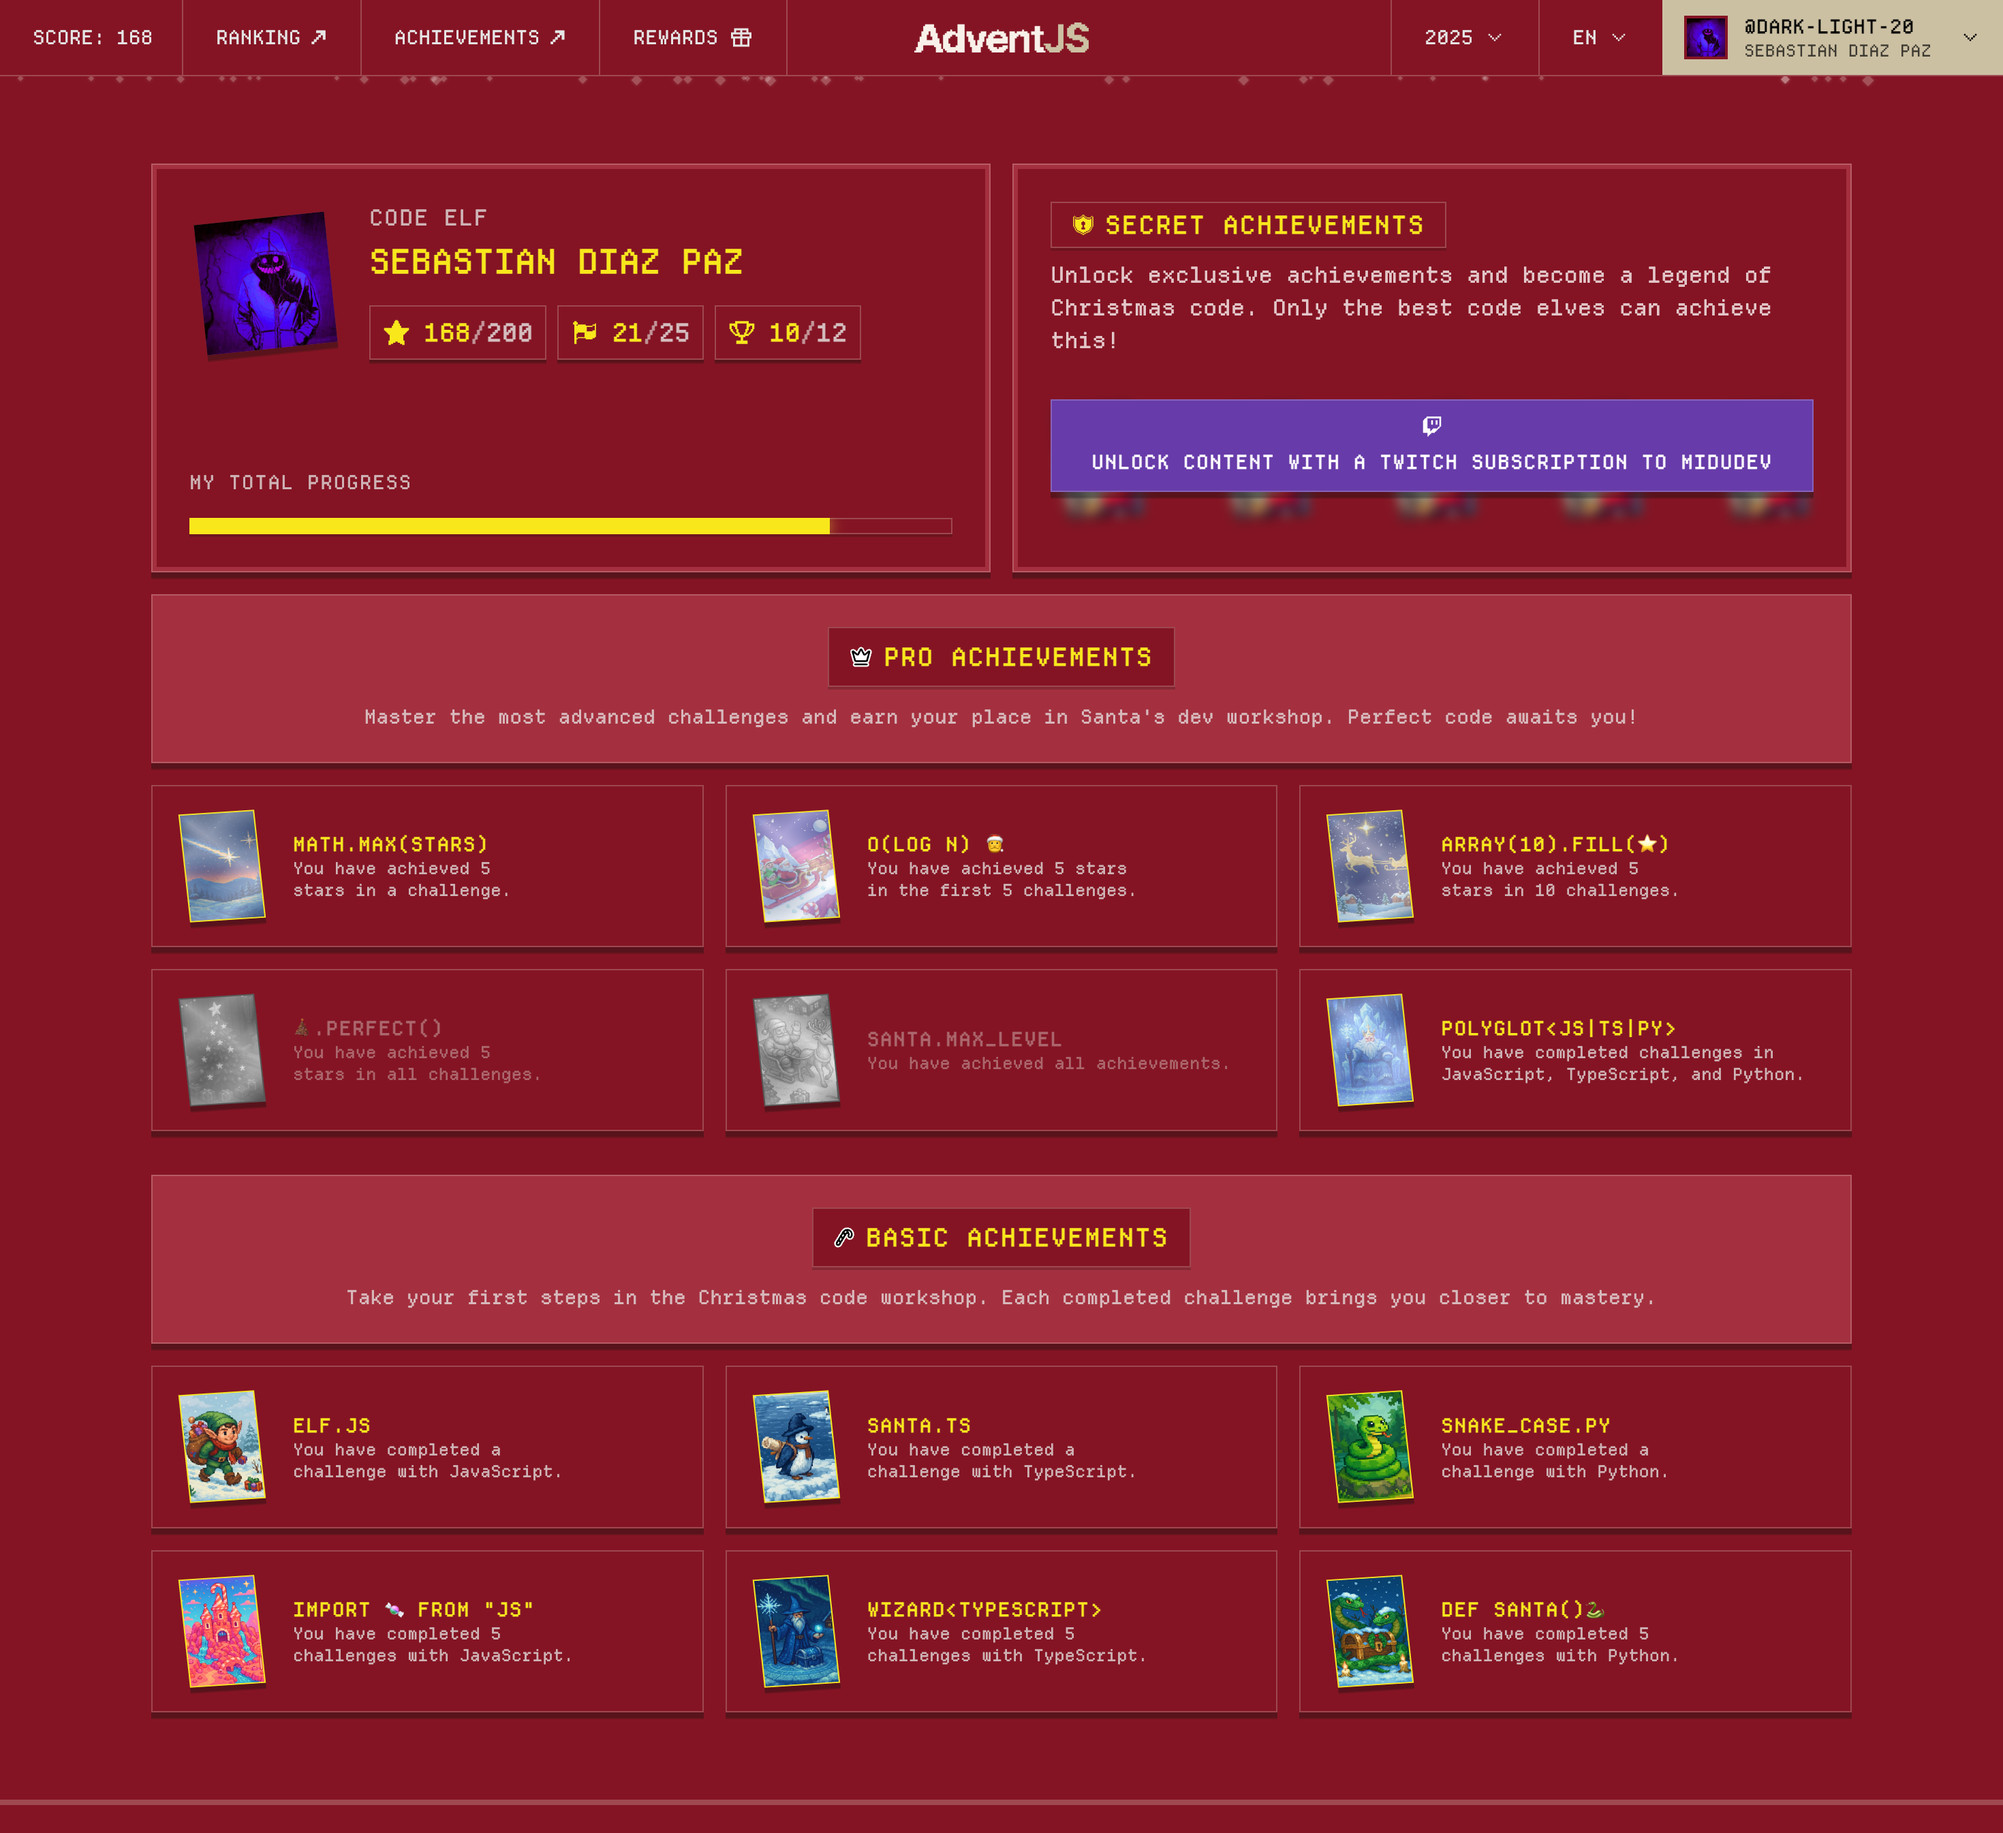
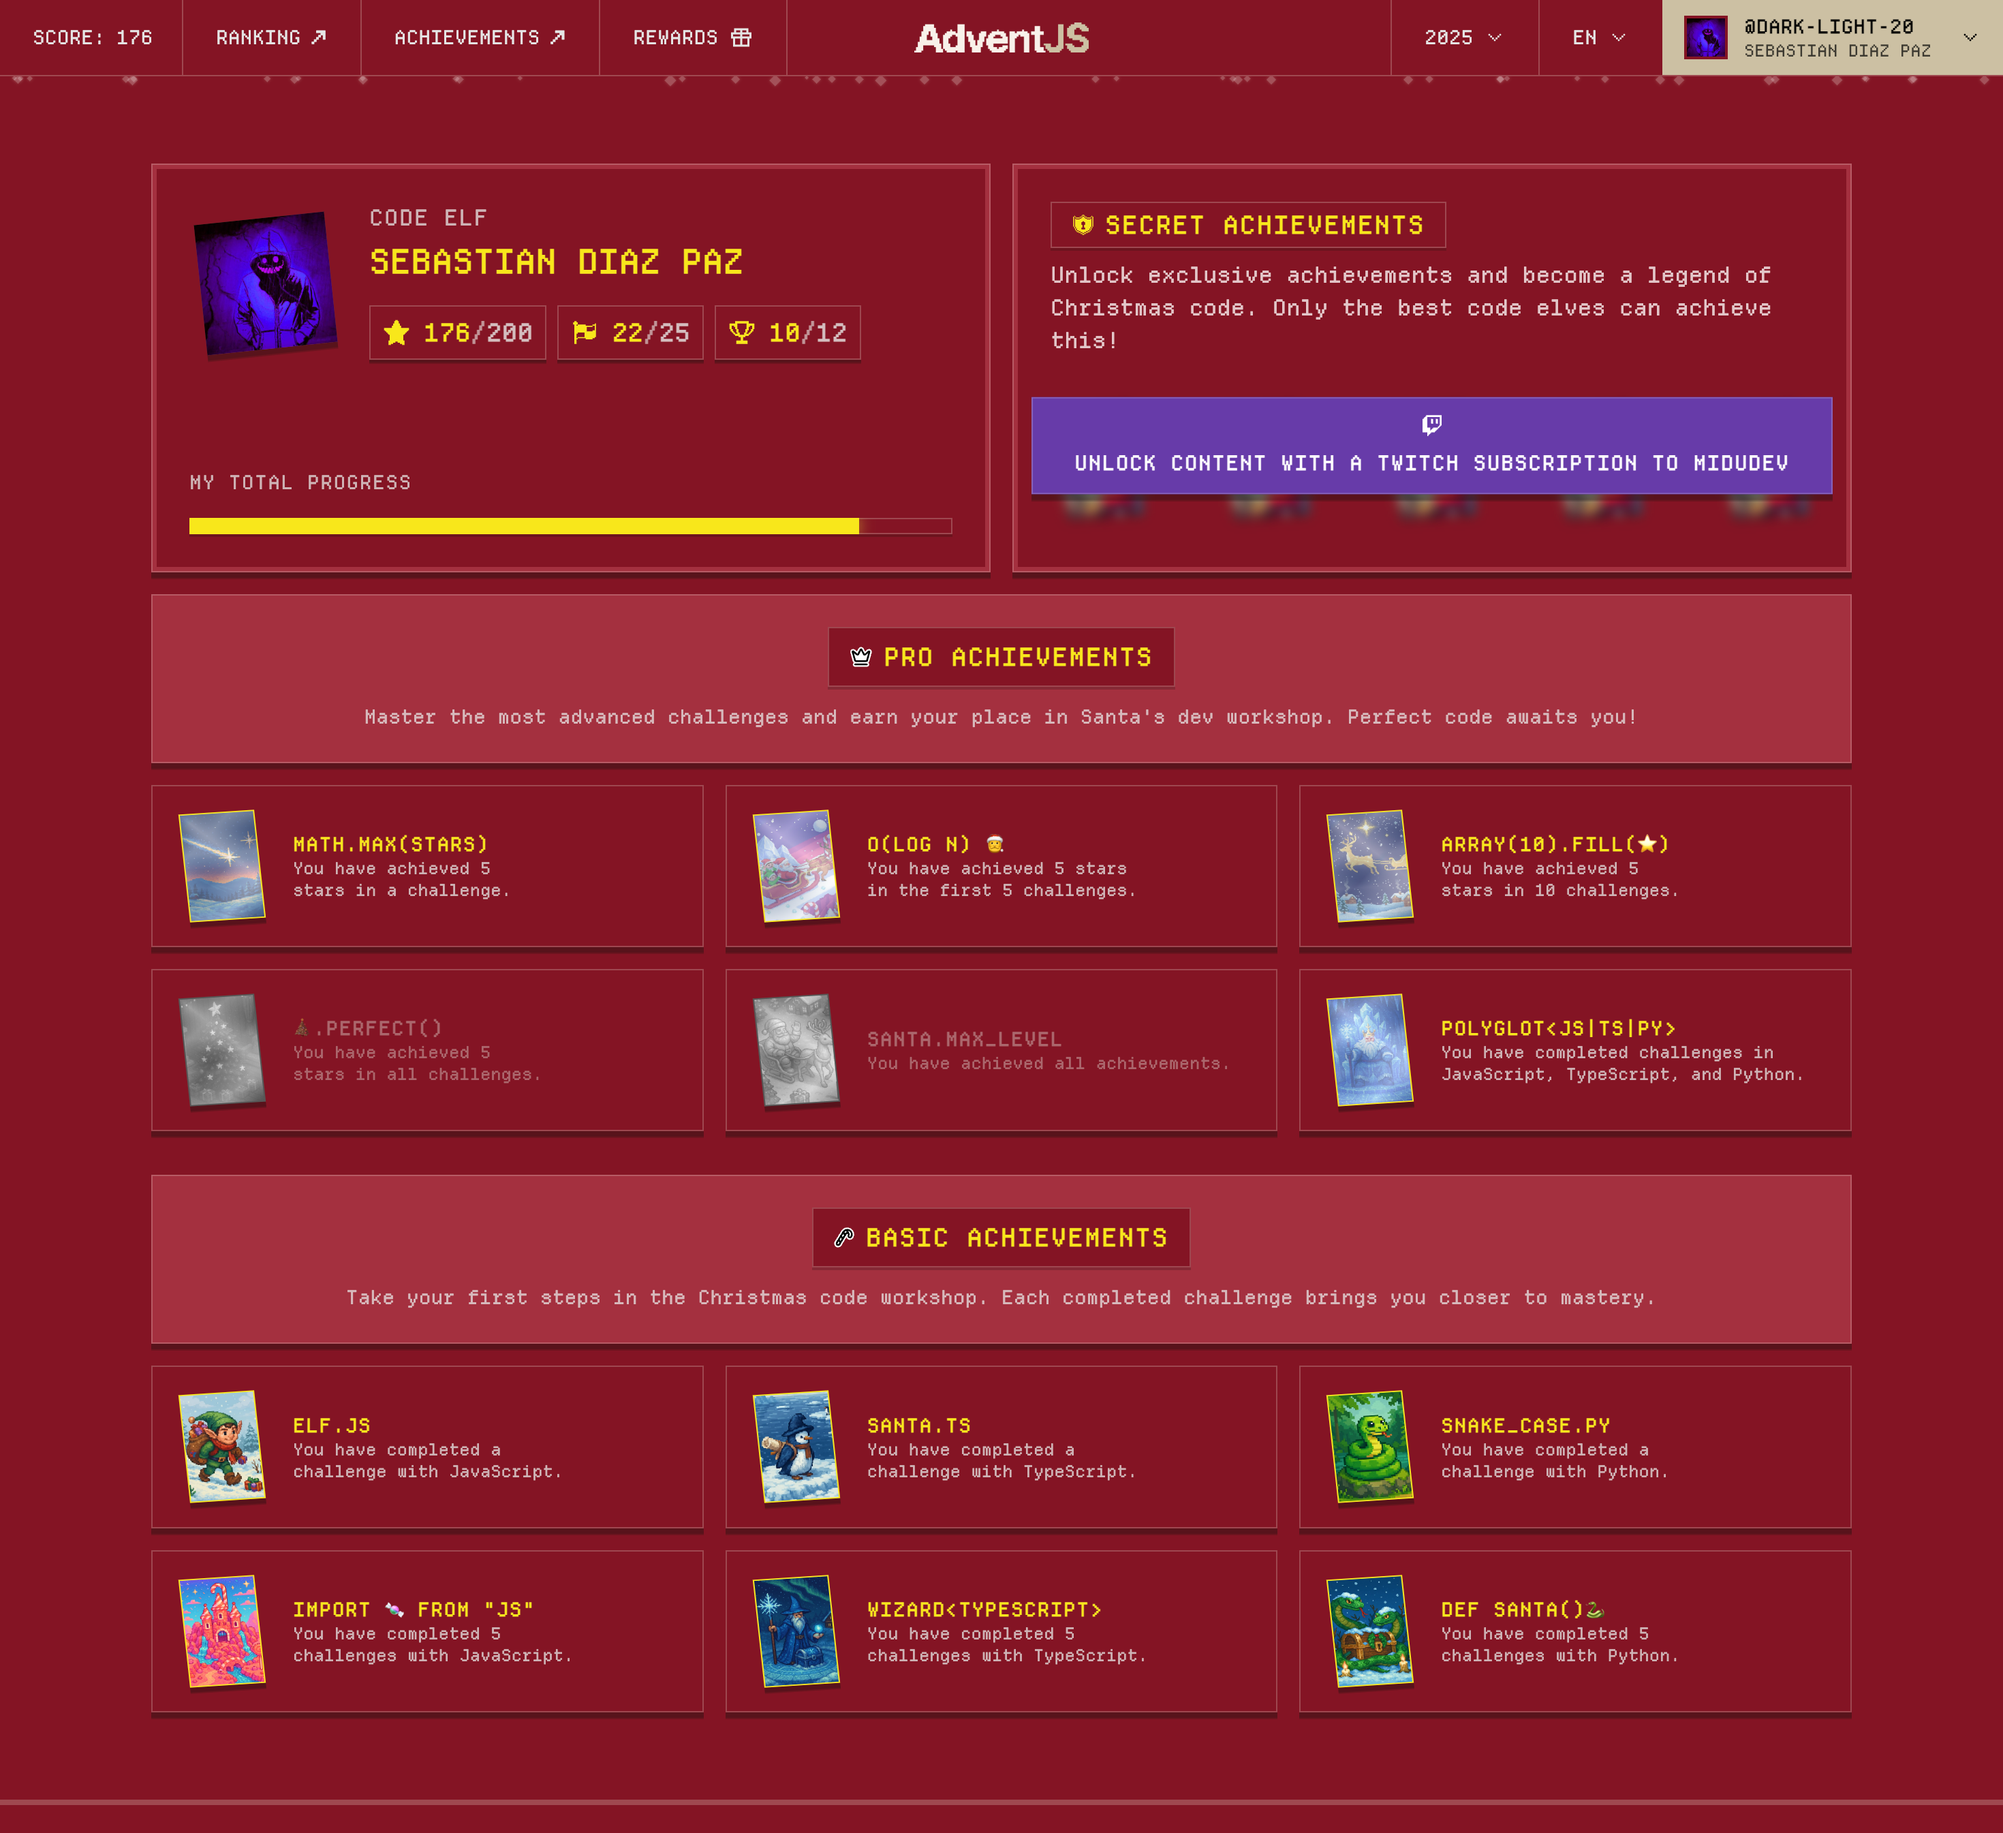
feat: :sparkles: Added challenge 22 solution

Changed region(s): [[0.4952, 0.2186, 0.9286, 0.281], [0.4024, 0.281, 0.4333, 0.3123]]

diff --git a/solutions/js/22.js b/solutions/js/22.js
@@ -1,0 +1,101 @@
+/**
+ * @param {string[][]} maze
+ * @returns {boolean}
+ */
+function canEscape(maze) {
+  const mazeLength = maze.length;
+  const rowLength = maze[0].length;
+  const directions = [
+    [0, 1],
+    [1, 0],
+    [0, -1],
+    [-1, 0],
+  ];
+
+  let santaPosition = [-1, -1];
+  let exitPosition = [-1, -1];
+
+  for (let i = 0; i < mazeLength; i++) {
+    const santaCol = maze[i].indexOf("S");
+    const exitCol = maze[i].indexOf("E");
+    if (santaCol !== -1) santaPosition = [i, santaCol];
+    if (exitCol !== -1) exitPosition = [i, exitCol];
+  }
+
+  const queue = [[santaPosition[0], santaPosition[1]]];
+  const visited = new Set();
+  visited.add(`${santaPosition[0]},${santaPosition[1]}`);
+
+  while (queue.length > 0) {
+    const [x, y] = queue.shift();
+
+    if (x === exitPosition[0] && y === exitPosition[1]) {
+      return true;
+    }
+
+    for (const [dx, dy] of directions) {
+      const newX = x + dx;
+      const newY = y + dy;
+
+      if (
+        newX >= 0 &&
+        newX < mazeLength &&
+        newY >= 0 &&
+        newY < rowLength &&
+        maze[newX][newY] !== "#" &&
+        !visited.has(`${newX},${newY}`)
+      ) {
+        visited.add(`${newX},${newY}`);
+        queue.push([newX, newY]);
+      }
+    }
+  }
+
+  return false;
+}
+
+const escape1 = canEscape([
+  ["S", ".", "#", "."],
+  ["#", ".", "#", "."],
+  [".", ".", ".", "."],
+  ["#", "#", "#", "E"],
+]);
+// → true
+console.log(escape1);
+
+const escape2 = canEscape([
+  ["S", "#", "#"],
+  [".", "#", "."],
+  [".", "#", "E"],
+]);
+// → false
+console.log(escape2);
+
+const escape3 = canEscape([["S", "E"]]);
+// → true
+console.log(escape3);
+
+const escape4 = canEscape([
+  ["S", ".", ".", ".", "."],
+  ["#", "#", "#", "#", "."],
+  [".", ".", ".", ".", "."],
+  [".", "#", "#", "#", "#"],
+  [".", ".", ".", ".", "E"],
+]);
+// → true
+console.log(escape4);
+
+const escape5 = canEscape([
+  ["S", ".", "."],
+  [".", ".", "."],
+  ["#", "#", "#"],
+  [".", ".", "E"],
+]);
+// → false
+console.log(escape5);
+
+/* 
+  Score: ★★★★★★★★ (3 bonus stars for solving it today!)
+  Points: 10
+  ops: 2177
+*/

diff --git a/solutions/ts/22.ts b/solutions/ts/22.ts
@@ -1,0 +1,97 @@
+function canEscape(maze: string[][]): boolean {
+  const mazeLength = maze.length;
+  const rowLength = maze[0].length;
+  const directions = [
+    [0, 1],
+    [1, 0],
+    [0, -1],
+    [-1, 0],
+  ];
+
+  let santaPosition = [-1, -1];
+  let exitPosition = [-1, -1];
+
+  for (let i = 0; i < mazeLength; i++) {
+    const santaCol = maze[i].indexOf("S");
+    const exitCol = maze[i].indexOf("E");
+    if (santaCol !== -1) santaPosition = [i, santaCol];
+    if (exitCol !== -1) exitPosition = [i, exitCol];
+  }
+
+  const queue = [[santaPosition[0], santaPosition[1]]];
+  const visited = new Set();
+  visited.add(`${santaPosition[0]},${santaPosition[1]}`);
+
+  while (queue.length > 0) {
+    const [x, y] = queue.shift()!;
+
+    if (x === exitPosition[0] && y === exitPosition[1]) {
+      return true;
+    }
+
+    for (const [dx, dy] of directions) {
+      const newX = x + dx;
+      const newY = y + dy;
+
+      if (
+        newX >= 0 &&
+        newX < mazeLength &&
+        newY >= 0 &&
+        newY < rowLength &&
+        maze[newX][newY] !== "#" &&
+        !visited.has(`${newX},${newY}`)
+      ) {
+        visited.add(`${newX},${newY}`);
+        queue.push([newX, newY]);
+      }
+    }
+  }
+
+  return false;
+}
+
+const escape1 = canEscape([
+  ["S", ".", "#", "."],
+  ["#", ".", "#", "."],
+  [".", ".", ".", "."],
+  ["#", "#", "#", "E"],
+]);
+// → true
+console.log(escape1);
+
+const escape2 = canEscape([
+  ["S", "#", "#"],
+  [".", "#", "."],
+  [".", "#", "E"],
+]);
+// → false
+console.log(escape2);
+
+const escape3 = canEscape([["S", "E"]]);
+// → true
+console.log(escape3);
+
+const escape4 = canEscape([
+  ["S", ".", ".", ".", "."],
+  ["#", "#", "#", "#", "."],
+  [".", ".", ".", ".", "."],
+  [".", "#", "#", "#", "#"],
+  [".", ".", ".", ".", "E"],
+]);
+// → true
+console.log(escape4);
+
+const escape5 = canEscape([
+  ["S", ".", "."],
+  [".", ".", "."],
+  ["#", "#", "#"],
+  [".", ".", "E"],
+]);
+// → false
+console.log(escape5);
+
+/* 
+  Score: ★★★★★★★★ (3 bonus stars for solving it today!)
+  Points: 10
+  ops: 2273
+*/

diff --git a/solutions/python/22.py b/solutions/python/22.py
@@ -1,0 +1,100 @@
+from collections import deque
+
+
+def can_escape(maze: list[list[str]]) -> bool:
+    maze_length = len(maze)
+    row_length = len(maze[0])
+    directions = [
+        [0, 1],
+        [1, 0],
+        [0, -1],
+        [-1, 0],
+    ]
+
+    santa_position = [-1, -1]
+    exit_position = [-1, -1]
+
+    for i in range(0, maze_length):
+        for j in range(0, row_length):
+            if (maze[i][j] == "S"):
+                santa_position = [i, j]
+            if (maze[i][j] == "E"):
+                exit_position = [i, j]
+
+    queue = deque()
+    queue.append([santa_position[0], santa_position[1]])
+    visited = set()
+    visited.add(f"{santa_position[0]},{santa_position[1]}")
+
+    while len(queue) > 0:
+        [x, y] = queue.popleft()
+
+        if (x == exit_position[0] and y == exit_position[1]):
+            return True
+
+        for [dx, dy] in directions:
+            new_x = x + dx
+            new_y = y + dy
+
+            if (
+                new_x >= 0 and
+                new_x < maze_length and
+                new_y >= 0 and
+                new_y < row_length and
+                maze[new_x][new_y] != "#" and
+                f"{new_x},{new_y}" not in visited
+            ):
+                visited.add(f"{new_x},{new_y}")
+                queue.append([new_x, new_y])
+
+    return False
+
+
+escape1 = can_escape([
+    ["S", ".", "#", "."],
+    ["#", ".", "#", "."],
+    [".", ".", ".", "."],
+    ["#", "#", "#", "E"],
+
+
+])
+# → true
+print(escape1)
+
+escape2 = can_escape([
+    ["S", "#", "#"],
+    [".", "#", "."],
+    [".", "#", "E"],
+])
+# → false
+print(escape2)
+
+escape3 = can_escape([["S", "E"]])
+# → true
+print(escape3)
+
+escape4 = can_escape([
+    ["S", ".", ".", ".", "."],
+    ["#", "#", "#", "#", "."],
+    [".", ".", ".", ".", "."],
+    [".", "#", "#", "#", "#"],
+    [".", ".", ".", ".", "E"],
+])
+# → true
+print(escape4)
+
+escape5 = can_escape([
+    ["S", ".", "."],
+    [".", ".", "."],
+    ["#", "#", "#"],
+    [".", ".", "E"],
+])
+# → false
+print(escape5)
+
+
+"""
+  Score: ★★★★★★★★ (3 bonus stars for solving it today!)
+  Points: 10
+  ops: 2267
+"""

diff --git a/README.md b/README.md
@@ -29,7 +29,7 @@ This repository contains my solutions to **25** challenges proposed by [Midudev]
 | #19       | 🎄 Santa's Secret Journey        | 🟢 Easy    | [Description](challenges/19.md) | [JS Solution](solutions/js/19.js) | [TS Solution](solutions/ts/19.ts) | [Py Solution](solutions/python/19.py) |
 | #20       | 🎁 Vertical warehouse            | 🟢 Easy    | [Description](challenges/20.md) | [JS Solution](solutions/js/20.js) | [TS Solution](solutions/ts/20.ts) | [Py Solution](solutions/python/20.py) |
 | #21       | 🤖 The cleaning robot            | 🟠 Medium  | [Description](challenges/21.md) | [JS Solution](solutions/js/21.js) | [TS Solution](solutions/ts/21.ts) | [Py Solution](solutions/python/21.py) |
-| #22       |                                  | ⚪ Unknow | [Description](challenges/22.md) | [JS Solution](solutions/js/22.js) | [TS Solution](solutions/ts/22.ts) | [Py Solution](solutions/python/22.py) |
+| #22       | 🎄 The sleigh maze               | 🔴 Hard    | [Description](challenges/22.md) | [JS Solution](solutions/js/22.js) | [TS Solution](solutions/ts/22.ts) | [Py Solution](solutions/python/22.py) |
 | #23       |                                  | ⚪ Unknow | [Description](challenges/23.md) | [JS Solution](solutions/js/23.js) | [TS Solution](solutions/ts/23.ts) | [Py Solution](solutions/python/23.py) |
 | #24       |                                  | ⚪ Unknow | [Description](challenges/24.md) | [JS Solution](solutions/js/24.js) | [TS Solution](solutions/ts/24.ts) | [Py Solution](solutions/python/24.py) |
 | #25       |                                  | ⚪ Unknow | [Description](challenges/25.md) | [JS Solution](solutions/js/25.js) | [TS Solution](solutions/ts/25.ts) | [Py Solution](solutions/python/25.py) |

diff --git a/challenges/22.md b/challenges/22.md
@@ -1,0 +1,63 @@
+# Challenge #22: 🎄 The sleigh maze
+
+<small>Hard</small>
+
+Santa Claus 🎅 is testing a new **sleigh simulator** inside a maze in the workshop. The maze is represented as a matrix of characters.
+
+Your task is to implement a function that determines if it is possible to reach the exit (`E`) starting from the initial position (`S`).
+
+**Maze rules:**
+
+- `S`: Santa's initial position.
+- `E`: Maze exit.
+- `.`: Free path.
+- `#`: Wall (blocks the path).
+- Allowed movements: **up, down, left, and right**.
+- There is only one `S` and one `E`.
+
+🧩 Examples
+
+```javascript
+canEscape([
+  ["S", ".", "#", "."],
+  ["#", ".", "#", "."],
+  [".", ".", ".", "."],
+  ["#", "#", "#", "E"],
+]);
+// → true
+
+canEscape([
+  ["S", "#", "#"],
+  [".", "#", "."],
+  [".", "#", "E"],
+]);
+// → false
+
+canEscape([["S", "E"]]);
+// → true
+
+canEscape([
+  ["S", ".", ".", ".", "."],
+  ["#", "#", "#", "#", "."],
+  [".", ".", ".", ".", "."],
+  [".", "#", "#", "#", "#"],
+  [".", ".", ".", ".", "E"],
+]);
+// → true
+
+canEscape([
+  ["S", ".", "."],
+  [".", ".", "."],
+  ["#", "#", "#"],
+  [".", ".", "E"],
+]);
+// → false
+```
+
+**Things to keep in mind:**
+
+- You don't need to return the path, just if it is possible to arrive.
+- Santa cannot leave the boundaries of the maze.
+- You can pass through the same cell multiple times.
+
+**Tip:** This problem can be solved in several ways, but search algorithms like **BFS** (Breadth-First Search) or **DFS** (Depth-First Search) are ideal for these types of challenges.
